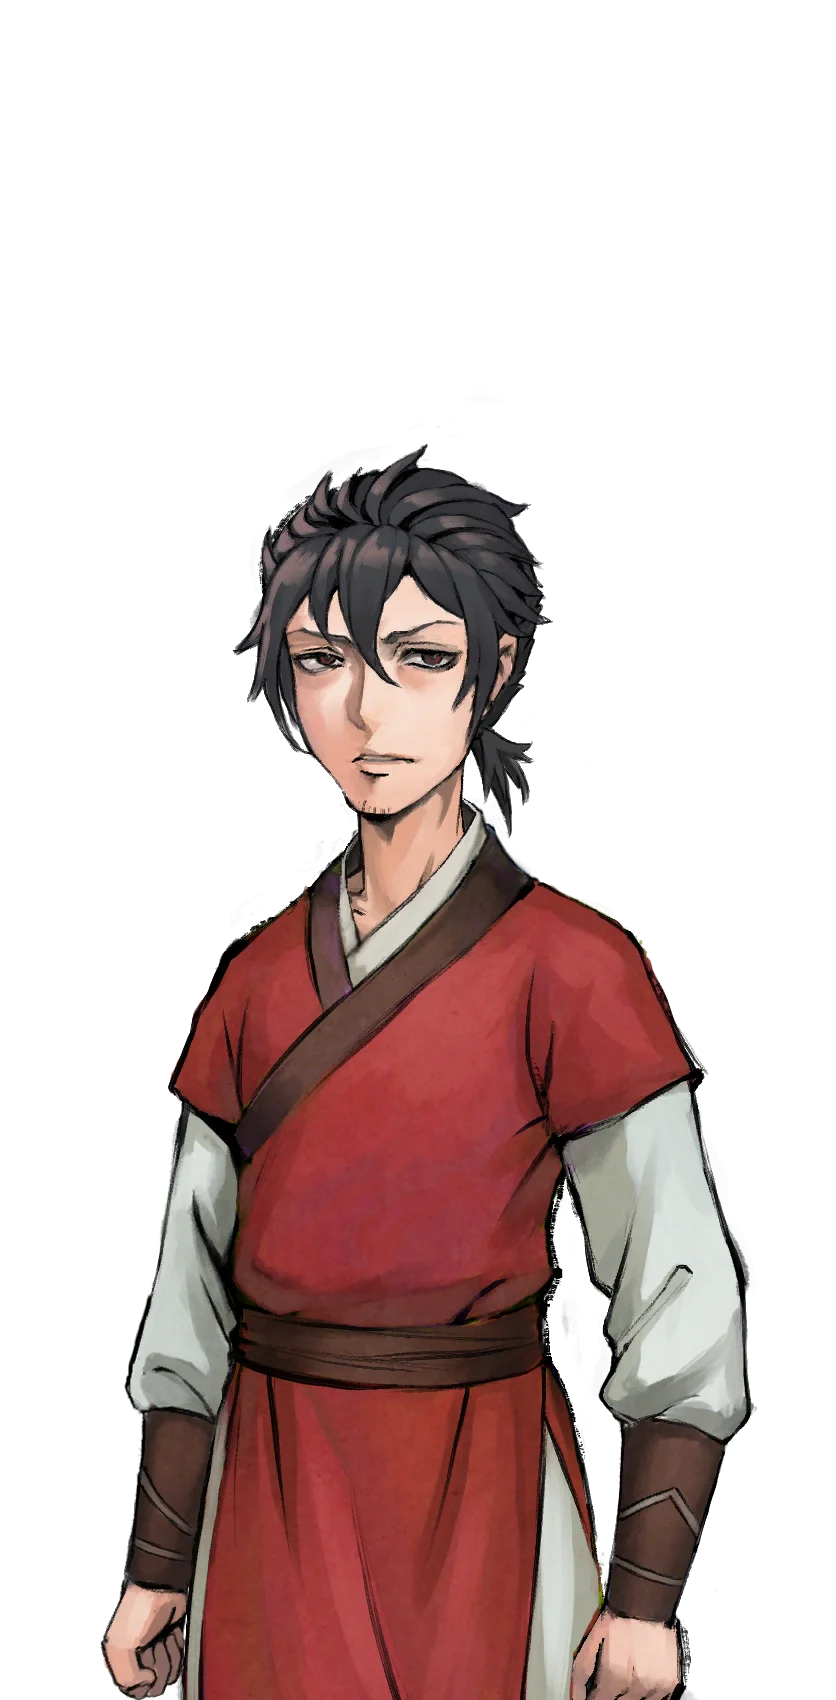
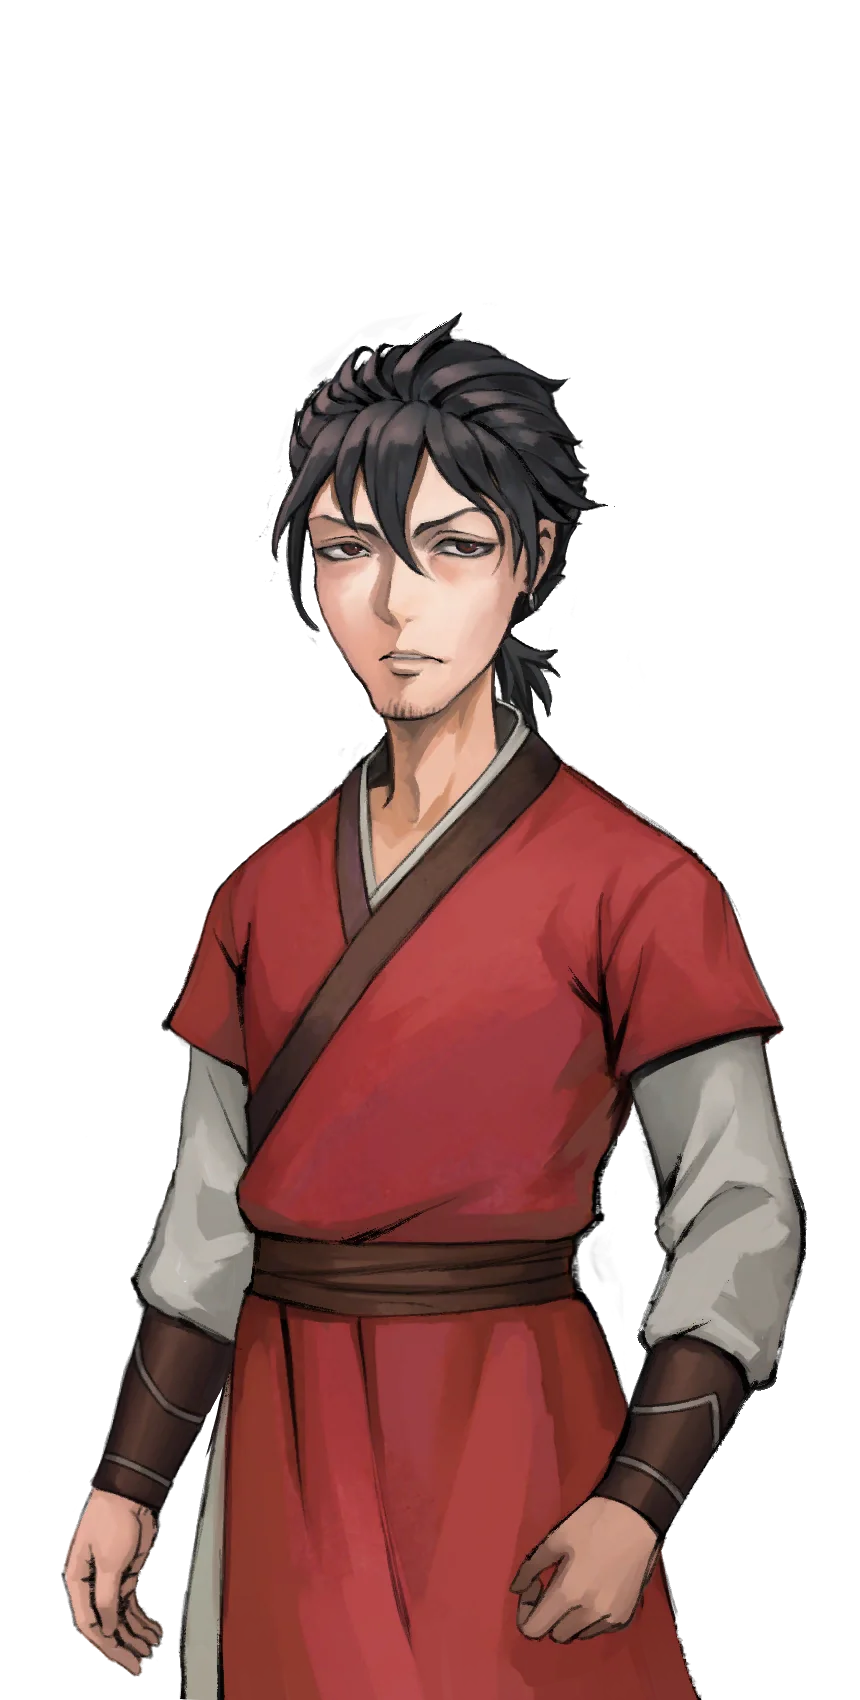
顏疆補上 3 個表情分頁並換新版立繪

diff --git a/docs/people/characters/trainee204.md b/docs/people/characters/trainee204.md
@@ -60,6 +60,18 @@ tags:
 			</ChTr>
 		</ChTable>
 	</ChTab>
+	<ChTab title="汗顏">
+		<Ch src='/images/characters/trainee204/nervous1.webp' position='center'/>
+		<ChName nameZh='汗顏' nameEn='Sweating' position='right' />
+	</ChTab>
+	<ChTab title="不悅">
+		<Ch src='/images/characters/trainee204/angry1.webp' position='center'/>
+		<ChName nameZh='不悅' nameEn='Displeased' position='right' />
+	</ChTab>
+	<ChTab title="生氣">
+		<Ch src='/images/characters/trainee204/angry2.webp' position='center'/>
+		<ChName nameZh='生氣' nameEn='Angry' position='right' />
+	</ChTab>
 </ChTabs>
 <br><br>
 
